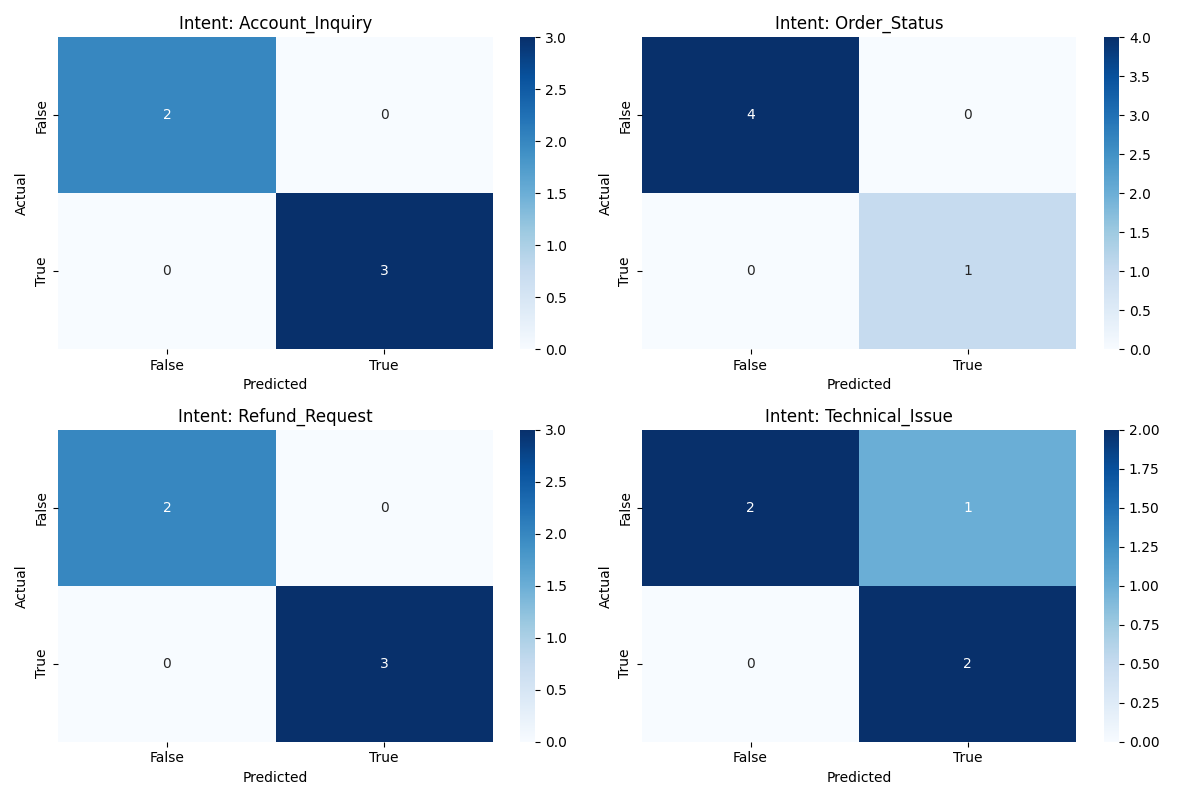
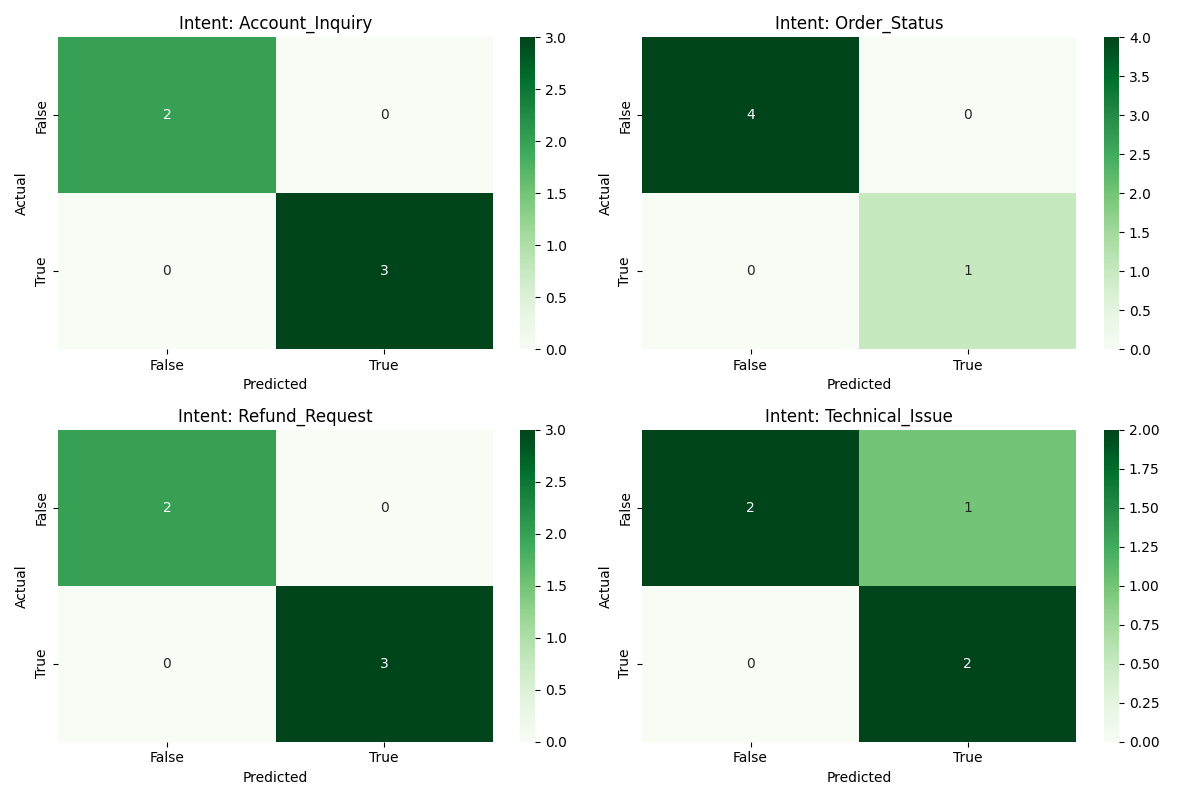
mini updates

diff --git a/classifier.py b/classifier.py
@@ -49,7 +49,7 @@ def save_confusion_matrix(y_true_bin, y_pred_bin, classes):
             matrix,
             annot=True,
             fmt="d",
-            cmap="Blues",
+            cmap="Greens",
             xticklabels=["False", "True"],
             yticklabels=["False", "True"],
         )

diff --git a/README.md b/README.md
@@ -45,7 +45,7 @@ The system generates a **Multi-Label Confusion Matrix** (shown above) to audit t
     python3 classifier.py
     ```
 
-## 📁 Project Structure
+## Project Structure
 * `classifier.py`: The core logic, API integration, and visualization suite.
 * `dataset.json`: A curated validation set of 5 "high-difficulty" support edge cases.
 * `requirements.txt`: Project dependencies (OpenAI, Scikit-Learn, Seaborn, Matplotlib).
